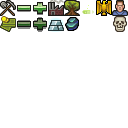
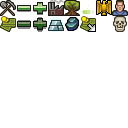
Maintenance cost is now shown in planet view.

Changed region(s): [[0.625, 0.125, 0.75, 0.25]]

diff --git a/src/org/openRealmOfStars/game/States/PlanetView.java b/src/org/openRealmOfStars/game/States/PlanetView.java
@@ -73,6 +73,7 @@ public class PlanetView extends BlackPanel {
   private IconLabel reseProd;
   private IconLabel cultProd;
   private IconLabel credProd;
+  private IconLabel maintenance;
   private IconLabel metal;
   private IconLabel metalOre;
   private JComboBox<Building> productionSelect;
@@ -186,6 +187,13 @@ public class PlanetView extends BlackPanel {
     credProd.setToolTipText("Total production of credits");
     credProd.setAlignmentX(Component.LEFT_ALIGNMENT);
     invis.add(credProd);
+
+    maintenance = new IconLabel(invis,Icons.getIconByName(Icons.ICON_MAINTENANCE), 
+        ": "+planet.getMaintenanceCost());
+    maintenance.setToolTipText("Maintenance cost of planet");
+    maintenance.setAlignmentX(Component.LEFT_ALIGNMENT);
+    invis.add(maintenance);
+
     metal = new IconLabel(invis,Icons.getIconByName(Icons.ICON_METAL), 
         ": "+planet.getMetal());
     metal.setToolTipText("Total metal on surface");

diff --git a/src/org/openRealmOfStars/gui/icons/Icons.java b/src/org/openRealmOfStars/gui/icons/Icons.java
@@ -46,6 +46,7 @@ public class Icons {
   public static final String ICON_CREDIT = "Credit";
   public static final String ICON_METAL = "Metal";
   public static final String ICON_METAL_ORE = "MetalOre";
+  public static final String ICON_MAINTENANCE = "Maintenance";
   
   /**
    * List of Icon
@@ -145,6 +146,8 @@ public class Icons {
     icon = new Icon16x16(image, 3, 1,ICON_METAL);
     addIcon(icon);
     icon = new Icon16x16(image, 4, 1,ICON_METAL_ORE);
+    addIcon(icon);
+    icon = new Icon16x16(image, 5, 1,ICON_MAINTENANCE);
     addIcon(icon);
   }
   
